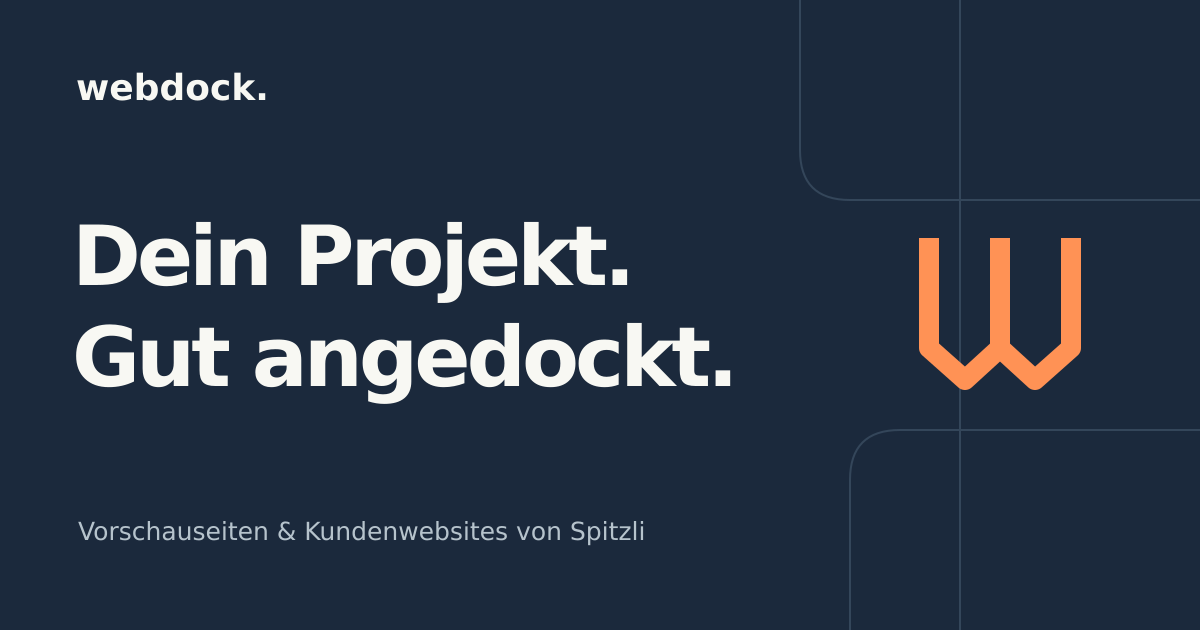
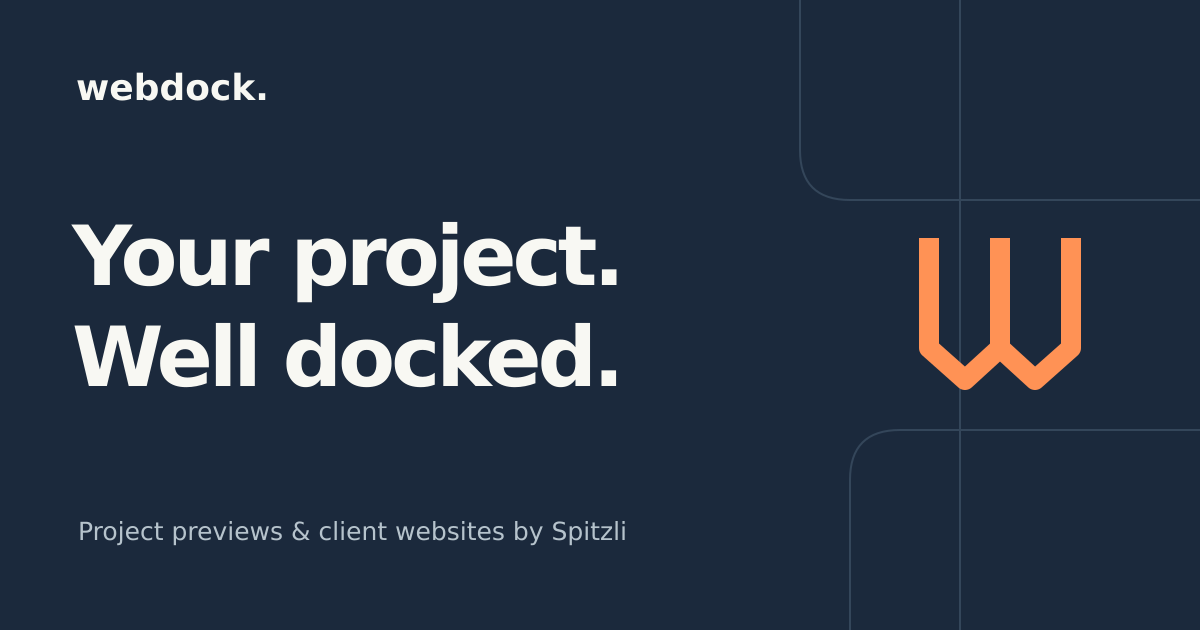
Translate Webdock landing page and metadata into English

Changed region(s): [[0.0617, 0.5127, 0.6167, 0.6635], [0.0617, 0.3317, 0.5242, 0.4825], [0.0617, 0.8143, 0.5242, 0.8746]]

diff --git a/src/app/page.tsx b/src/app/page.tsx
@@ -5,36 +5,36 @@ function Mark() { return <svg viewBox="0 0 48 48" fill="none" aria-hidden="true"
 export default function Home() {
   const structuredData = { '@context': 'https://schema.org', '@graph': [
     { '@type': 'Organization', '@id': 'https://spitzli.dev/#organization', name: 'Spitzli Development', url: 'https://spitzli.dev' },
-    { '@type': 'WebSite', '@id': 'https://webdock.dev/#website', name: 'Webdock', url: 'https://webdock.dev', inLanguage: 'de-DE', description: 'Vorschauseiten und Kundenwebsites von Spitzli Development.', publisher: { '@id': 'https://spitzli.dev/#organization' } },
-    { '@type': 'FAQPage', '@id': 'https://webdock.dev/#fragen', mainEntity: faqs.map(({ question, answer }) => ({ '@type': 'Question', name: question, acceptedAnswer: { '@type': 'Answer', text: answer } })) },
+    { '@type': 'WebSite', '@id': 'https://webdock.dev/#website', name: 'Webdock', url: 'https://webdock.dev', inLanguage: 'en', description: 'Project previews and client websites by Spitzli Development.', publisher: { '@id': 'https://spitzli.dev/#organization' } },
+    { '@type': 'FAQPage', '@id': 'https://webdock.dev/#faq', mainEntity: faqs.map(({ question, answer }) => ({ '@type': 'Question', name: question, acceptedAnswer: { '@type': 'Answer', text: answer } })) },
   ] };
   return <>
     <script type="application/ld+json" dangerouslySetInnerHTML={{ __html: JSON.stringify(structuredData).replace(/</g, '\\u003c') }}/>
-    <a className="skip-link" href="#inhalt">Zum Inhalt</a>
+    <a className="skip-link" href="#content">Skip to content</a>
     <header className="site-header wrap flex items-center justify-between">
-      <a href="#" className="brand" aria-label="Webdock Startseite"><Mark/>webdock<span className="brand-period">.</span></a>
-      <nav aria-label="Hauptnavigation" className="flex items-center gap-8"><a className="nav-section" href="#konzept">Das Konzept</a><a className="nav-section" href="#fragen">Fragen</a><a className="nav-contact" href={contact}>Projekt anfragen <span aria-hidden="true">↗</span></a></nav>
+      <a href="#" className="brand" aria-label="Webdock home"><Mark/>webdock<span className="brand-period">.</span></a>
+      <nav aria-label="Main navigation" className="flex items-center gap-8"><a className="nav-section" href="#concept">The idea</a><a className="nav-section" href="#faq">FAQ</a><a className="nav-contact" href={contact}>Start a project <span aria-hidden="true">↗</span></a></nav>
     </header>
-    <main id="inhalt">
+    <main id="content">
       <section className="hero wrap">
-        <div className="hero-copy"><a className="byline" href="https://spitzli.dev"><span className="small-mark">✳</span> Ein Zuhause für Projekte von Spitzli</a>
-          <h1>Dein Projekt.<br/>Gut angedockt.</h1>
-          <p className="hero-description">Von der ersten Vorschau bis zur fertigen Website. Webdock gibt deinem Projekt einen festen Platz im Web.</p>
-          <div className="hero-actions flex flex-wrap items-center gap-6"><a className="button" href={contact}>Lass uns anlegen <span aria-hidden="true">↗</span></a><a className="text-link" href="#konzept">Webdock kennenlernen <span aria-hidden="true">↓</span></a></div>
-          <p className="hero-note"><span/>Deine Subdomain. Oder deine eigene Domain.</p>
+        <div className="hero-copy"><a className="byline" href="https://spitzli.dev"><span className="small-mark">✳</span> A home for projects by Spitzli</a>
+          <h1>Your project.<br/>Well docked.</h1>
+          <p className="hero-description">From the first preview to the finished website. Webdock gives your project a place to call home.</p>
+          <div className="hero-actions flex flex-wrap items-center gap-6"><a className="button" href={contact}>Let’s get you docked <span aria-hidden="true">↗</span></a><a className="text-link" href="#concept">Explore Webdock <span aria-hidden="true">↓</span></a></div>
+          <p className="hero-note"><span/>Your subdomain. Or your own domain.</p>
         </div>
         <Dock/>
       </section>
-      <div className="address-strip"><div className="wrap flex flex-wrap items-center justify-between gap-4"><span>Eine Idee braucht einen Ort.</span><p><span>dein-projekt</span><strong>.webdock.dev</strong><span className="address-cursor" aria-hidden="true"/></p></div></div>
-      <section id="konzept" className="concept wrap section-space">
-        <div><h2>Vom „Schau mal“<br/>zum „Wir sind online“.</h2><p className="section-intro">Manche Projekte brauchen erstmal einen Link. Andere einen dauerhaften Platz. Webdock ist für beides da.</p><a className="text-link" href="https://spitzli.dev">Entwickelt von Spitzli <span aria-hidden="true">↗</span></a></div>
-        <div className="use-cases"><article><span className="case-icon" aria-hidden="true">▧</span><div><h3>Zeigen, bevor es live geht.</h3><p>Eine feste Adresse für deinen Entwurf. Gemeinsam ansehen, Feedback geben und die nächste Version besser machen.</p></div></article><article><span className="case-icon" aria-hidden="true">⌁</span><div><h3>Deine Website. Dein Platz.</h3><p>Keine eigene Domain? Dein Projekt ist über eine passende Webdock-Subdomain erreichbar. Einfach weitergeben, einfach wiederfinden.</p></div></article><article><span className="case-icon" aria-hidden="true">↗</span><div><h3>Bereit für den nächsten Schritt.</h3><p>Wenn eine eigene Domain dazukommt, stimmen wir die Anbindung ab. Die technische Basis folgt deinem Projekt.</p></div></article></div>
+      <div className="address-strip"><div className="wrap flex flex-wrap items-center justify-between gap-4"><span>Every idea needs a place.</span><p><span>your-project</span><strong>.webdock.dev</strong><span className="address-cursor" aria-hidden="true"/></p></div></div>
+      <section id="concept" className="concept wrap section-space">
+        <div><h2>From “take a look”<br/>to “we’re live”.</h2><p className="section-intro">Some projects need a link to get started. Others need a lasting home. Webdock is here for both.</p><a className="text-link" href="https://spitzli.dev">Built by Spitzli <span aria-hidden="true">↗</span></a></div>
+        <div className="use-cases"><article><span className="case-icon" aria-hidden="true">▧</span><div><h3>Share it before you ship it.</h3><p>A dedicated address for your work in progress. Review it together, share feedback and make the next version better.</p></div></article><article><span className="case-icon" aria-hidden="true">⌁</span><div><h3>Your website. Your place.</h3><p>No domain of your own? Your project can live on a Webdock subdomain. Easy to share, easy to find again.</p></div></article><article><span className="case-icon" aria-hidden="true">↗</span><div><h3>Ready for what comes next.</h3><p>When you’re ready for your own domain, we’ll work out the connection. The setup grows with your project.</p></div></article></div>
       </section>
-      <section className="spitzli-section"><div className="wrap spitzli-inner"><div className="spitzli-symbol" aria-hidden="true">s<span>.</span></div><div><p className="subtle-label">Webdock × Spitzli Development</p><h2>Ein fester Platz.<br/>Ein direkter Draht.</h2></div><div className="spitzli-copy"><p>Hinter Webdock steht Dominik von Spitzli Development. Von der ersten Idee bis zur Bereitstellung sprechen wir direkt miteinander.</p><a className="text-link" href="https://spitzli.dev">Spitzli kennenlernen <span aria-hidden="true">↗</span></a></div></div></section>
-      <section id="fragen" className="faq wrap section-space"><div><h2>Gut zu wissen.<br/>Kurz beantwortet.</h2><p className="section-intro">Noch etwas offen?<br/><a href={contact}>Frag mich einfach.</a></p></div><div className="faq-list">{faqs.map(({question, answer}) => <details key={question}><summary>{question}<span aria-hidden="true">+</span></summary><p>{answer}</p></details>)}</div></section>
-      <section className="outlook wrap"><span className="outlook-icon" aria-hidden="true">⌘</span><div><h3>Heute dein Link. Morgen dein Überblick.</h3><p>Eine eigene Console für deine Projekte ist geplant. Bis dahin kümmern wir uns persönlich.</p></div><span className="planned">In Planung</span></section>
-      <section className="closing wrap"><p>Schon eine Idee im Kopf?</p><h2>Hier ist noch<br/>ein Platz für dich.</h2><a className="button" href={contact}>Projekt besprechen <span aria-hidden="true">↗</span></a><span className="closing-mark" aria-hidden="true"><Mark/></span></section>
+      <section className="spitzli-section"><div className="wrap spitzli-inner"><div className="spitzli-symbol" aria-hidden="true">s<span>.</span></div><div><p className="subtle-label">Webdock × Spitzli Development</p><h2>A home online.<br/>A human on your side.</h2></div><div className="spitzli-copy"><p>Webdock is run by Dominik at Spitzli Development. From the first idea to deployment, you work directly with the person building your project.</p><a className="text-link" href="https://spitzli.dev">Meet Spitzli <span aria-hidden="true">↗</span></a></div></div></section>
+      <section id="faq" className="faq wrap section-space"><div><h2>Good questions.<br/>Straight answers.</h2><p className="section-intro">Something else on your mind?<br/><a href={contact}>Just ask.</a></p></div><div className="faq-list">{faqs.map(({question, answer}) => <details key={question}><summary>{question}<span aria-hidden="true">+</span></summary><p>{answer}</p></details>)}</div></section>
+      <section className="outlook wrap"><span className="outlook-icon" aria-hidden="true">⌘</span><div><h3>Your link today. Your dashboard tomorrow.</h3><p>A dedicated console for your projects is planned. Until then, we’ll take care of things personally.</p></div><span className="planned">Planned</span></section>
+      <section className="closing wrap"><p>Got something in mind?</p><h2>There’s a place<br/>for your next idea.</h2><a className="button" href={contact}>Let’s talk about it <span aria-hidden="true">↗</span></a><span className="closing-mark" aria-hidden="true"><Mark/></span></section>
     </main>
-    <footer className="wrap site-footer"><a className="brand" href="#" aria-label="Webdock Startseite"><Mark/>webdock.</a><p>Ein Projekt von <a href="https://spitzli.dev">Spitzli Development</a></p><a href="mailto:dominik@spitzli.dev">dominik@spitzli.dev <span aria-hidden="true">↗</span></a><ThemePicker/></footer>
+    <footer className="wrap site-footer"><a className="brand" href="#" aria-label="Webdock home"><Mark/>webdock.</a><p>A project by <a href="https://spitzli.dev">Spitzli Development</a></p><a href="mailto:dominik@spitzli.dev">dominik@spitzli.dev <span aria-hidden="true">↗</span></a><ThemePicker/></footer>
   </>;
 }

diff --git a/src/lib/content.ts b/src/lib/content.ts
@@ -1,9 +1,9 @@
-export const contact = 'mailto:dominik@spitzli.dev?subject=Mein%20Projekt%20mit%20Webdock';
+export const contact = 'mailto:dominik@spitzli.dev?subject=My%20project%20with%20Webdock';
 export const faqs = [
-  { question: 'Was ist Webdock?', answer: 'Webdock ist die Projekt-Heimat von Spitzli Development. Hier bekommen Vorschauseiten und Kundenwebsites eine eigene Adresse unter webdock.dev. Entwicklung und persönliche Betreuung laufen über Spitzli.' },
-  { question: 'Brauche ich eine eigene Domain?', answer: 'Nein. Dein Projekt kann unter einer Subdomain wie dein-projekt.webdock.dev erreichbar sein. Wenn du eine eigene Domain nutzen möchtest, wird die passende Anbindung für dein Projekt abgestimmt.' },
-  { question: 'Wie bekomme ich eine Webdock-Subdomain?', answer: 'Schreib Dominik von Spitzli Development mit deiner Projektidee. Name, technische Umsetzung und Bereitstellung werden gemeinsam abgestimmt. Eine automatische Registrierung gibt es derzeit nicht.' },
-  { question: 'Sind Vorschauseiten öffentlich?', answer: 'Das hängt von der Einrichtung des jeweiligen Projekts ab. Eine Subdomain allein ist kein Zugriffsschutz. Wenn eine Vorschau vertraulich bleiben soll, wird der passende Zugangsschutz separat vereinbart.' },
-  { question: 'Laufen alle Projekte auf Vercel?', answer: 'Derzeit läuft ein Großteil der Projekte auf Vercel. Webdock ist aber nicht auf einen Hosting-Anbieter festgelegt. Die technische Umgebung richtet sich nach dem jeweiligen Projekt.' },
-  { question: 'Gibt es schon eine Kunden-Console?', answer: 'Noch nicht. Eine eigene Console für die Verwaltung von Projekten ist als nächste Ausbaustufe geplant. Bis dahin ist Dominik dein direkter Ansprechpartner.' },
+  { question: 'What is Webdock?', answer: 'Webdock is the project home of Spitzli Development. It gives project previews and client websites their own address under webdock.dev. Development and personal support are handled by Spitzli.' },
+  { question: 'Do I need my own domain?', answer: 'No. Your project can live on a subdomain such as your-project.webdock.dev. If you would like to use your own domain, we will work out the right setup for your project.' },
+  { question: 'How do I get a Webdock subdomain?', answer: 'Contact Dominik at Spitzli Development with your project idea. We will agree on the name, technical setup and deployment together. Automated registration is not available at this stage.' },
+  { question: 'Are project previews public?', answer: 'That depends on how each project is configured. A subdomain alone does not restrict access. If a preview needs to stay private, access protection is arranged separately.' },
+  { question: 'Does every project run on Vercel?', answer: 'Most projects currently run on Vercel, but Webdock is not tied to a single hosting provider. The technical environment is chosen to suit each project.' },
+  { question: 'Is there a client console yet?', answer: 'Not yet. A dedicated console for managing projects is planned for a future release. Until then, Dominik is your direct point of contact.' },
 ];

diff --git a/src/components/dock.tsx b/src/components/dock.tsx
@@ -1,11 +1,11 @@
 export function Dock() {
-  return <figure className="dock" aria-label="Illustration: Vorschau, Website und eigene Domain sind mit Webdock verbunden.">
-    <div className="dock-top"><span>Ein Platz für dein nächstes Projekt.</span><span className="dock-coordinate">⌖ webdock.dev</span></div>
+  return <figure className="dock" aria-label="Illustration: a preview, a website and a custom domain connected to Webdock.">
+    <div className="dock-top"><span>A place for your next project.</span><span className="dock-coordinate">⌖ webdock.dev</span></div>
     <svg className="dock-lines" viewBox="0 0 640 540" fill="none" aria-hidden="true"><path d="M155 134H260Q285 134 285 159V280M492 212H390Q365 212 365 237V280M320 325V397Q320 425 348 425H463"/><path d="M0 470H640M0 490H640M0 510H640" className="water"/><circle cx="285" cy="205" r="5"/><circle cx="365" cy="254" r="5"/><circle cx="380" cy="425" r="5"/></svg>
-    <div className="project-node preview-node"><span className="node-symbol">▧</span><span>Raum für Ideen<small>studio.webdock.dev</small></span><span className="node-type">Vorschau</span></div>
-    <div className="project-node website-node"><span className="node-symbol">↗</span><span>Bereit für die Welt<small>projekt.webdock.dev</small></span><span className="node-type">Website</span></div>
+    <div className="project-node preview-node"><span className="node-symbol">▧</span><span>Room for ideas<small>studio.webdock.dev</small></span><span className="node-type">Preview</span></div>
+    <div className="project-node website-node"><span className="node-symbol">↗</span><span>Ready for the world<small>project.webdock.dev</small></span><span className="node-type">Website</span></div>
     <div className="dock-hub"><svg viewBox="0 0 48 48" aria-hidden="true"><path d="M7 9v22l9 8 8-8 8 8 9-8V9M24 9v22"/></svg><span>webdock</span></div>
-    <div className="domain-node"><span className="domain-dot"/>deine-domain.de<span>↗</span></div>
-    <figcaption>Beispieladressen. Dein Projekt bekommt seinen eigenen Platz.</figcaption>
+    <div className="domain-node"><span className="domain-dot"/>your-domain.com<span>↗</span></div>
+    <figcaption>Example addresses. Your project gets a place of its own.</figcaption>
   </figure>;
 }

diff --git a/src/app/layout.tsx b/src/app/layout.tsx
@@ -5,14 +5,14 @@ import { themeScript } from '@/lib/theme';
 const space = localFont({ src: '../../public/fonts/space-grotesk.ttf', variable: '--font-space', display: 'swap' });
 export const metadata: Metadata = {
   metadataBase: new URL('https://webdock.dev'),
-  title: 'Webdock — Vorschauseiten & Kundenwebsites von Spitzli',
-  description: 'Dein Projekt. Gut angedockt. Webdock ist die Heimat für Vorschauseiten und Kundenwebsites von Spitzli Development — mit eigener Subdomain oder eigener Domain.',
+  title: 'Webdock — Project previews & client websites by Spitzli',
+  description: 'Your project. Well docked. A home for project previews and client websites by Spitzli Development — on a Webdock subdomain or your own domain.',
   alternates: { canonical: '/' },
   robots: { index: true, follow: true },
-  openGraph: { type: 'website', locale: 'de_DE', url: '/', siteName: 'Webdock', title: 'Webdock — Dein Projekt. Gut angedockt.', description: 'Ein fester Platz im Web. Vorschauseiten und Kundenwebsites von Spitzli Development.', images: [{ url: '/og.png', width: 1200, height: 630, alt: 'Webdock — Dein Projekt. Gut angedockt.' }] },
+  openGraph: { type: 'website', locale: 'en_US', url: '/', siteName: 'Webdock', title: 'Webdock — Your project. Well docked.', description: 'A place on the web. Project previews and client websites by Spitzli Development.', images: [{ url: '/og.png', width: 1200, height: 630, alt: 'Webdock — Your project. Well docked.' }] },
   twitter: { card: 'summary_large_image', images: ['/og.png'] },
   icons: { icon: '/icon.svg' },
 };
 export default function RootLayout({ children }: Readonly<{ children: React.ReactNode }>) {
-  return <html lang="de" className={space.variable} suppressHydrationWarning><head><script dangerouslySetInnerHTML={{ __html: themeScript }}/></head><body>{children}</body></html>;
+  return <html lang="en" className={space.variable} suppressHydrationWarning><head><script dangerouslySetInnerHTML={{ __html: themeScript }}/></head><body>{children}</body></html>;
 }

diff --git a/src/components/theme-picker.tsx b/src/components/theme-picker.tsx
@@ -9,7 +9,7 @@ export function ThemePicker() {
     if (select.current) select.current.value = scheme === 'light' || scheme === 'dark' ? scheme : 'system';
   }, []);
 
-  return <label className="theme-picker">Darstellung
+  return <label className="theme-picker">Appearance
     <select ref={select} defaultValue="system" onChange={(event) => {
       const theme = event.target.value;
       if (theme === 'system') delete document.documentElement.dataset.theme;
@@ -17,8 +17,8 @@ export function ThemePicker() {
       try { localStorage.setItem('webdock-theme', theme); } catch { /* The selection still works when storage is blocked. */ }
     }}>
       <option value="system">System</option>
-      <option value="light">Hell</option>
-      <option value="dark">Dunkel</option>
+      <option value="light">Light</option>
+      <option value="dark">Dark</option>
     </select>
   </label>;
 }
